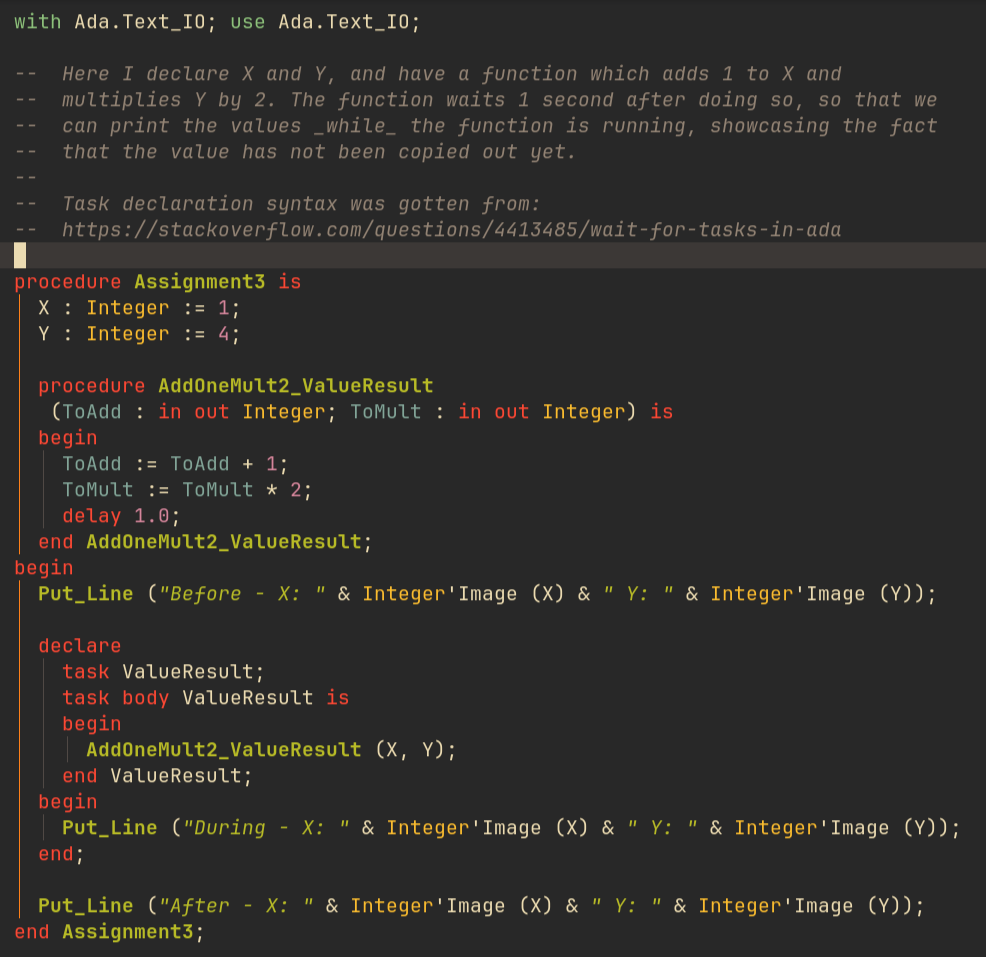
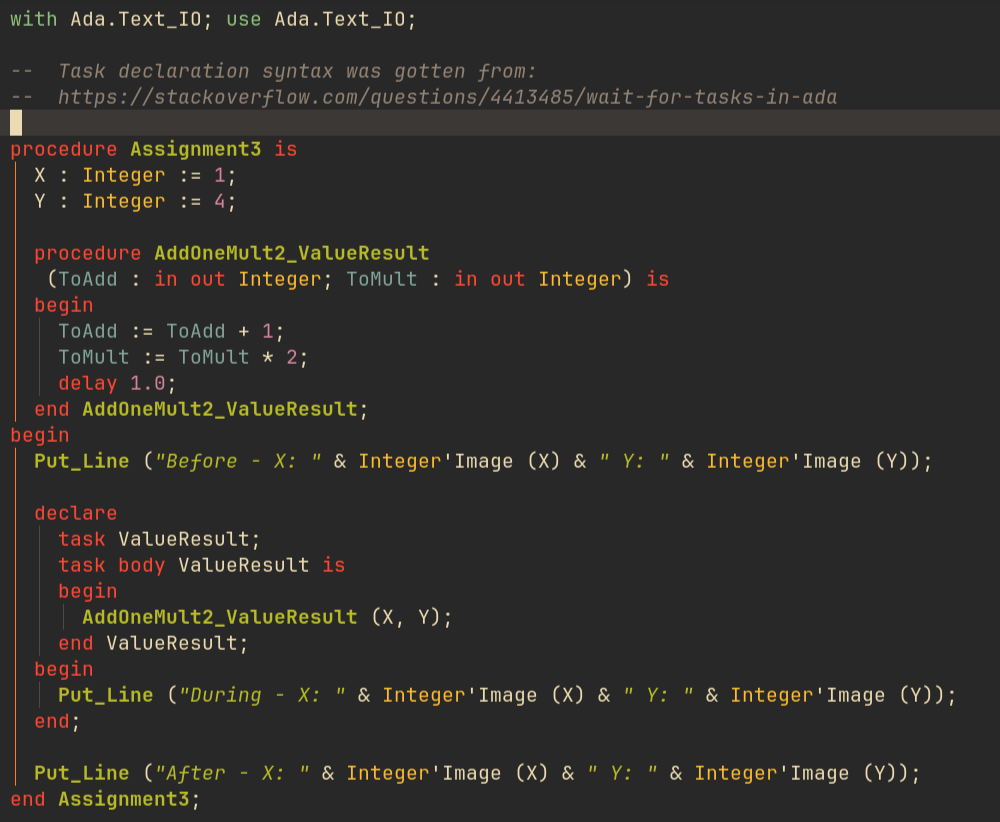
doc: move cpp/ada writeup out of source files

diff --git a/src/cpp/main.cpp b/src/cpp/main.cpp
@@ -4,13 +4,6 @@
 #include <string>
 #include <thread>
 
-// here, much like in the Ada example I have a function which takes in x and y
-// and mutates them. However these are passed-by-reference, so we modify the
-// variables in addOneMult2 on another thread, wait 100ms (to avoid racing with
-// the thread's startup time) and print x and y, seeing that they've mutated
-// instantly. We then wait until t finishes to print them (which should have no
-// effect, save for a cosmic bit flip.)
-
 void addOneMult2(int &x, int &y) {
   x += 1;
   y *= 2;
